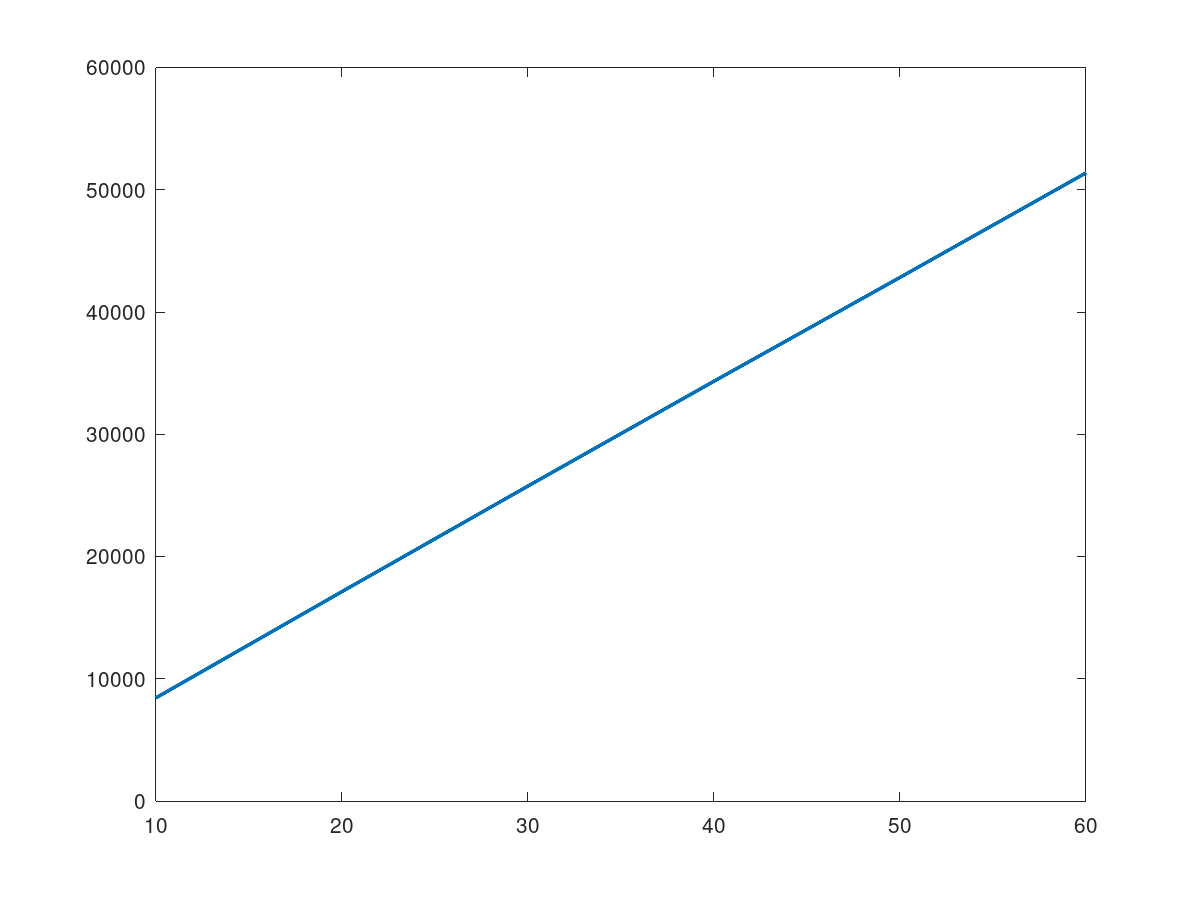
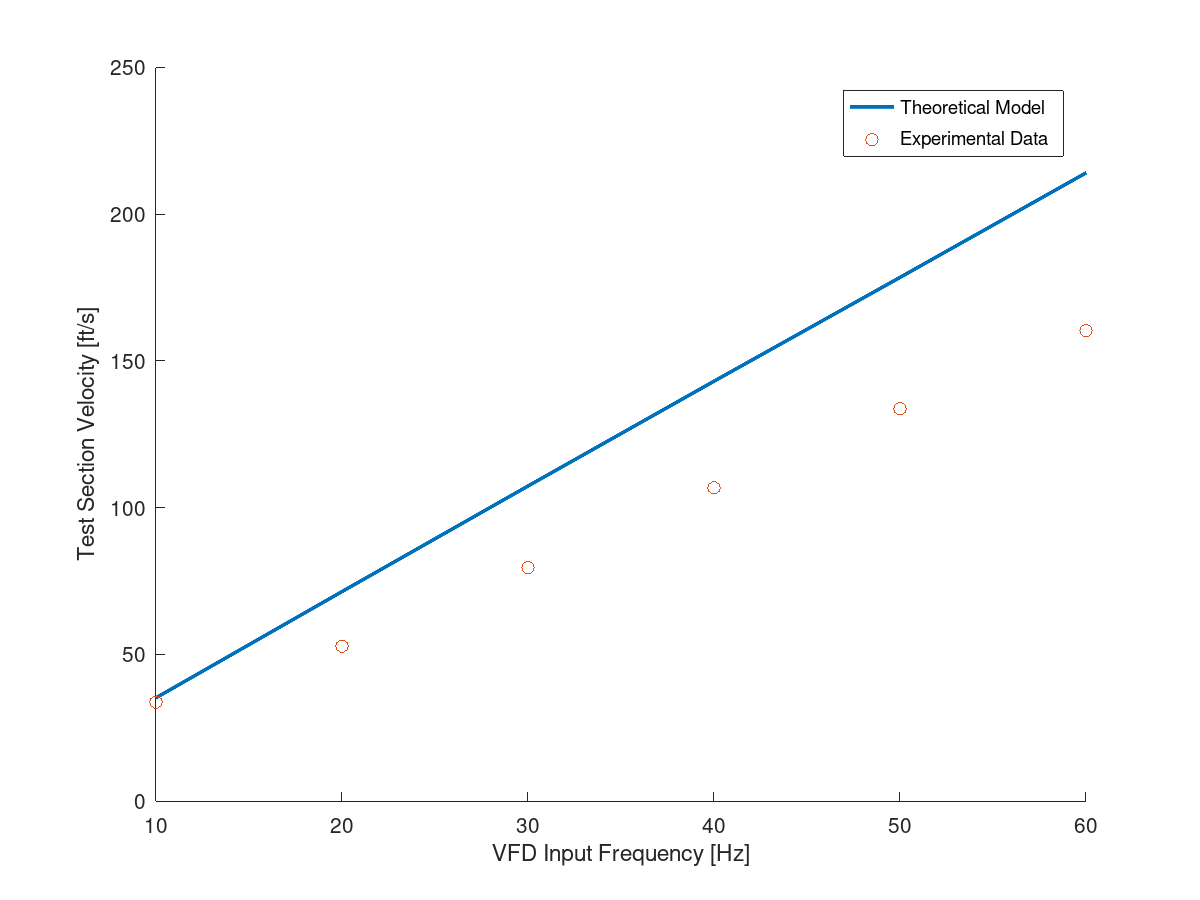
Final

diff --git a/Midterm.m b/Midterm.m
@@ -99,6 +99,7 @@ for idx = 1:length(omega_arr)
    [min_val, min_index] = min(absdiffs);
    intersect_q = Qcfm(min_index);
    intersect_h = H(min_index);
+   display(intersect_q / Ats);
    intersections = [intersections;
                     intersect_q, intersect_h];
    
@@ -132,9 +133,27 @@ set(gca,'TickLabelInterpreter','latex')
 saveas(gcf, "curves.png");
 
 % Main figure - U vs F
-U = intersections(:,1);
-display(U);
+Q_cfm = intersections(:,1);
+Q_cfs = Q_cfm / 60;
+U_theo = Q_cfs / Ats;
+
+U_exp = [33.68,
+          52.77,
+          79.56,
+          106.74,
+          133.68,
+          160.35];
+
+display(U_theo);
+
 figure()
-plot(VFD_w', U, "LineWidth", 2);
+hold on;
+plot(VFD_w', U_theo, "LineWidth", 2);
+scatter(VFD_w', U_exp, "ok");
+hold off;
+xlabel("VFD Input Frequency [Hz]");
+ylabel("Test Section Velocity [ft/s]");
+set(gca,'TickLabelInterpreter','Latex')
+legend({"Theoretical Model", "Experimental Data"});
 saveas(gcf, "mainfigure.png");
 
